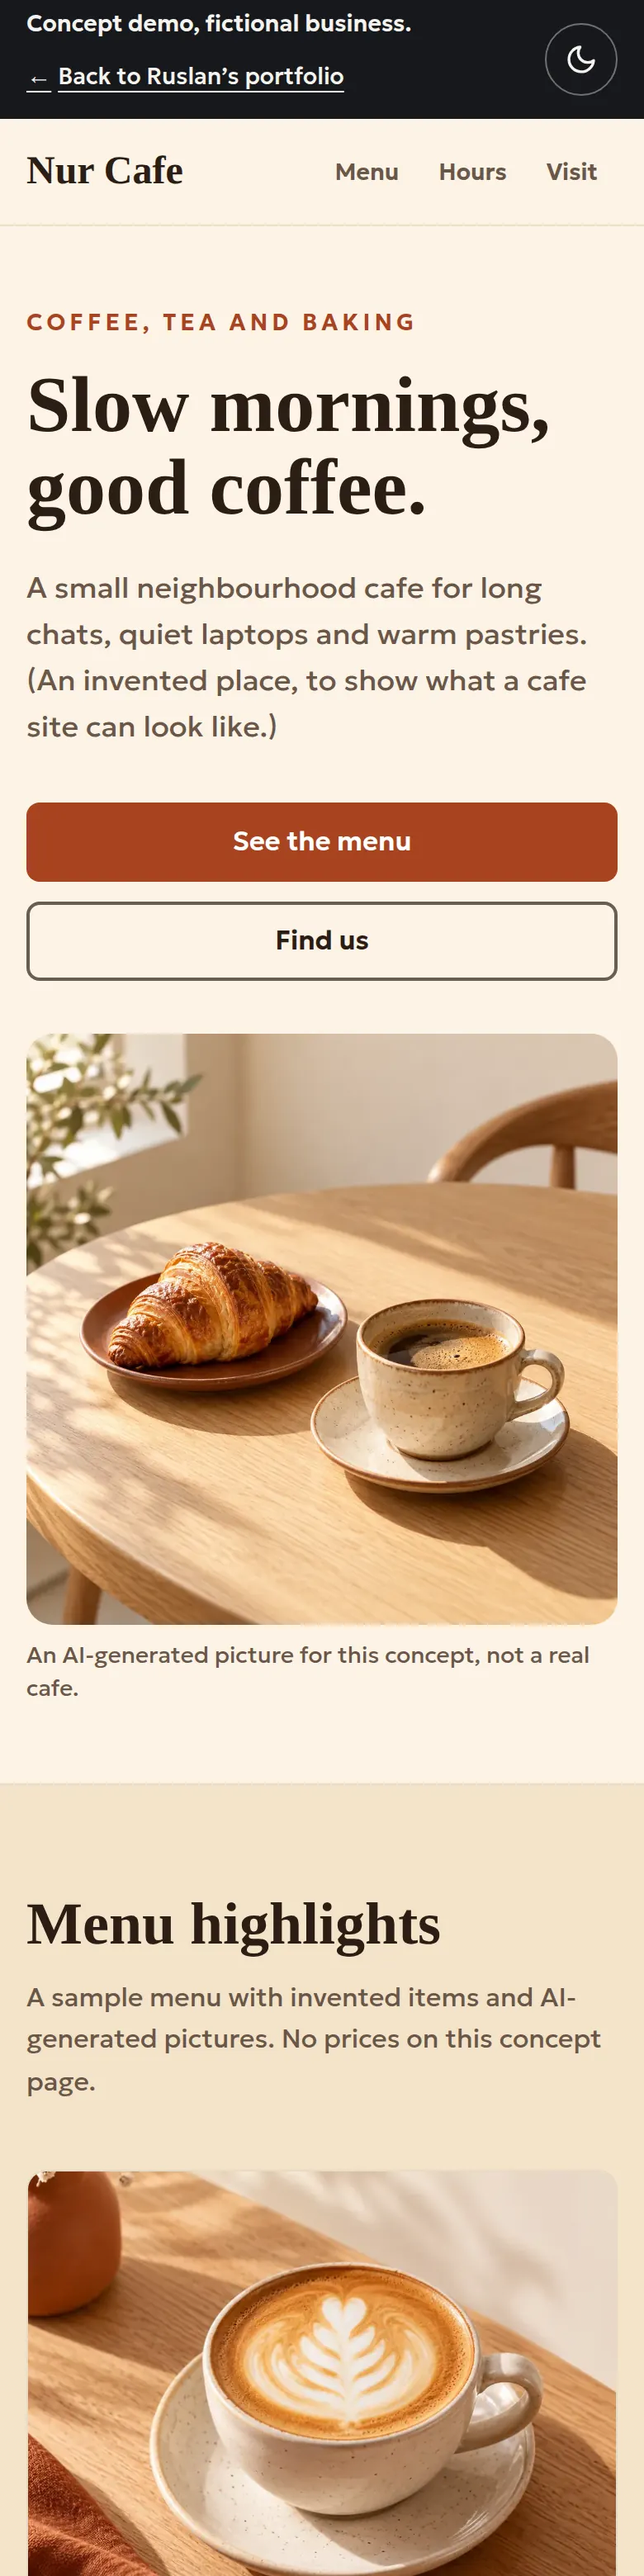
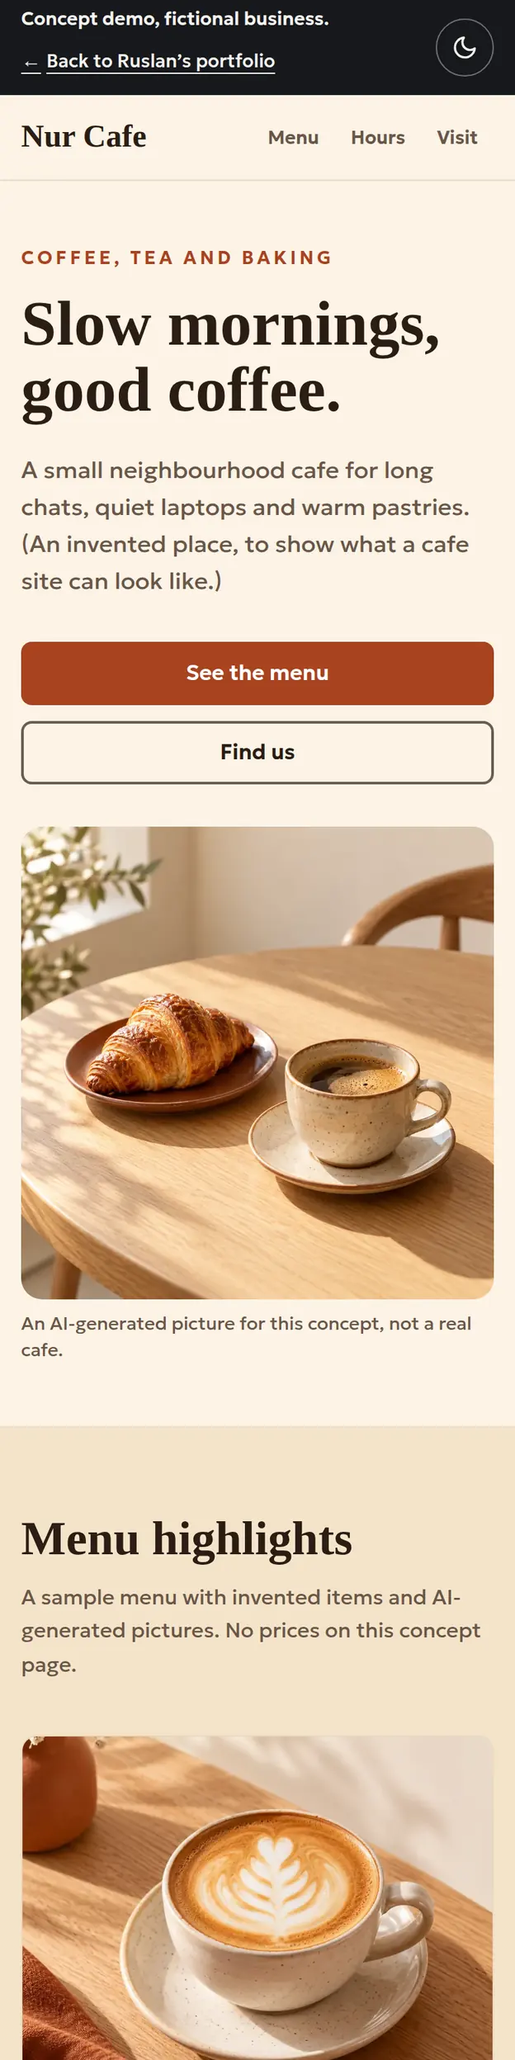
Load work-stage pictures late, shrink demo phone screenshots, fix freelancer header at 320px
- Pictures outside the first view start loading after the page has settled (and only if their stage is shown),
  or when a visitor switches phone/desktop view, so they never compete with the first picture.
- Phone screenshots of the demos are 624px wide (82 kB each instead of about 115 kB).
- Freelancer demo: the header no longer scrolls sideways at 320px.

Claude-Session: https://claude.ai/code/session_01U9oHiSfJHWxDDyJSd8fLSk

diff --git a/src/components/Stage.tsx b/src/components/Stage.tsx
@@ -50,6 +50,9 @@ export function Stage({
   className?: string;
 }) {
   const [active, setActive] = useState(0);
+  // Pictures that are not in the first view start loading once the page has settled (and this stage is shown and
+  // near the screen), or when the visitor switches view, so they never compete with the first picture.
+  const [armed, setArmed] = useState(false);
   const [views, setViews] = useState<View[]>(() => projects.map(() => 'phone'));
   const root = useRef<HTMLDivElement>(null);
   const pic = useRef<HTMLDivElement>(null);
@@ -57,6 +60,37 @@ export function Stage({
   const activeRef = useRef(0);
   const viewsRef = useRef(views);
   viewsRef.current = views;
+
+  useEffect(() => {
+    const el = root.current;
+    if (!el) return;
+    let timer = 0;
+    let io: IntersectionObserver | undefined;
+    const settle = () => {
+      timer = window.setTimeout(() => {
+        if (el.getBoundingClientRect().width === 0) return; // not shown at this width: nothing to load
+        if (mode === 'solo' && typeof IntersectionObserver !== 'undefined') {
+          io = new IntersectionObserver(
+            ([e]) => {
+              if (e.isIntersecting) {
+                setArmed(true);
+                io?.disconnect();
+              }
+            },
+            { rootMargin: '1200px 0px' },
+          );
+          io.observe(el);
+        } else setArmed(true);
+      }, 1200);
+    };
+    if (document.readyState === 'complete') settle();
+    else window.addEventListener('load', settle, { once: true });
+    return () => {
+      window.removeEventListener('load', settle);
+      window.clearTimeout(timer);
+      io?.disconnect();
+    };
+  }, [mode]);
 
   useEffect(() => {
     const html = document.documentElement;
@@ -148,6 +182,7 @@ export function Stage({
 
   const setView = (i: number, v: View) => {
     setViews((cur) => cur.map((x, k) => (k === i ? v : x)));
+    setArmed(true);
     layers.current[i]?.style.setProperty('--pan', '0');
   };
 
@@ -162,7 +197,7 @@ export function Stage({
               {/* eslint-disable @next/next/no-img-element */}
               <img
                 className="shot-phone"
-                src={p.phone.src}
+                src={i === 0 || armed ? p.phone.src : undefined}
                 width={p.phone.width}
                 height={p.phone.height}
                 alt={p.altPhone}
@@ -173,7 +208,7 @@ export function Stage({
               />
               <img
                 className="shot-desk"
-                src={p.desktop.src}
+                src={armed ? p.desktop.src : undefined}
                 width={p.desktop.width}
                 height={p.desktop.height}
                 alt={p.altDesktop}

diff --git a/src/components/Portfolio.tsx b/src/components/Portfolio.tsx
@@ -17,10 +17,13 @@ const STORAGE_KEY = 'lang';
 const isLang = (v: unknown): v is Lang => v === 'en' || v === 'ru' || v === 'uz';
 
 // Real screenshots (taken at 390x844 @2x and 1280x800): the live product and the two concept demos.
-// The phone screenshots of the demos are taller (390x1560) so the picture has something to scroll through.
+// NightShift's phone screenshot is one screen (390x844 at 2x). The demos' are taller (390x1560 at 1.6x) so the
+// picture has something to scroll through.
 const shot = (name: string, view: 'phone' | 'desktop') =>
   view === 'phone'
-    ? { src: `/work/${name}-phone.webp`, width: 780, height: name === 'nightshift' ? 1688 : 3120 }
+    ? name === 'nightshift'
+      ? { src: `/work/${name}-phone.webp`, width: 780, height: 1688 }
+      : { src: `/work/${name}-phone.webp`, width: 624, height: 2496 }
     : { src: `/work/${name}-desktop.webp`, width: 1280, height: 800 };
 
 const work: { shots: string; live: boolean; href: string; from?: number }[] = [
@@ -292,7 +295,7 @@ export function Portfolio({ year }: { year: number }) {
                 {t.process.steps.map((s, i) => (
                   <li key={i} className="rv" style={stagger(0)}>
                     {/* eslint-disable-next-line @next/next/no-img-element */}
-                    <img src={`/process/process-${i + 1}.webp`} width={800} height={800} alt="" loading="lazy" decoding="async" className="step-pic" />
+                    <img src={`/process/process-${i + 1}.webp`} width={800} height={800} alt="" loading="lazy" decoding="async" className="step-pic" fetchPriority="low" />
                     <h3 className="t-lead">{s.title}</h3>
                     <p>{s.text}</p>
                   </li>

diff --git a/src/app/demos/freelancer/page.tsx b/src/app/demos/freelancer/page.tsx
@@ -88,7 +88,7 @@ export default function FreelancerDemo() {
 
       <header className="border-b-2 border-ink">
         <div className={`${container} flex min-h-[64px] items-center justify-between gap-2`}>
-          <a href="#top" className="inline-flex min-h-[44px] items-center whitespace-nowrap text-xl font-extrabold">
+          <a href="#top" className="inline-flex min-h-[44px] items-center whitespace-nowrap text-lg font-extrabold sm:text-xl">
             Aylin Demo
           </a>
           <nav aria-label="Designer" className="flex items-center">
@@ -100,7 +100,7 @@ export default function FreelancerDemo() {
               <a
                 key={href}
                 href={href}
-                className="inline-flex min-h-[44px] items-center px-2.5 text-sm font-bold underline-offset-4 hover:underline sm:px-4 sm:text-base"
+                className="inline-flex min-h-[44px] items-center px-1.5 text-sm font-bold underline-offset-4 hover:underline min-[360px]:px-2.5 sm:px-4 sm:text-base"
               >
                 {label}
               </a>
